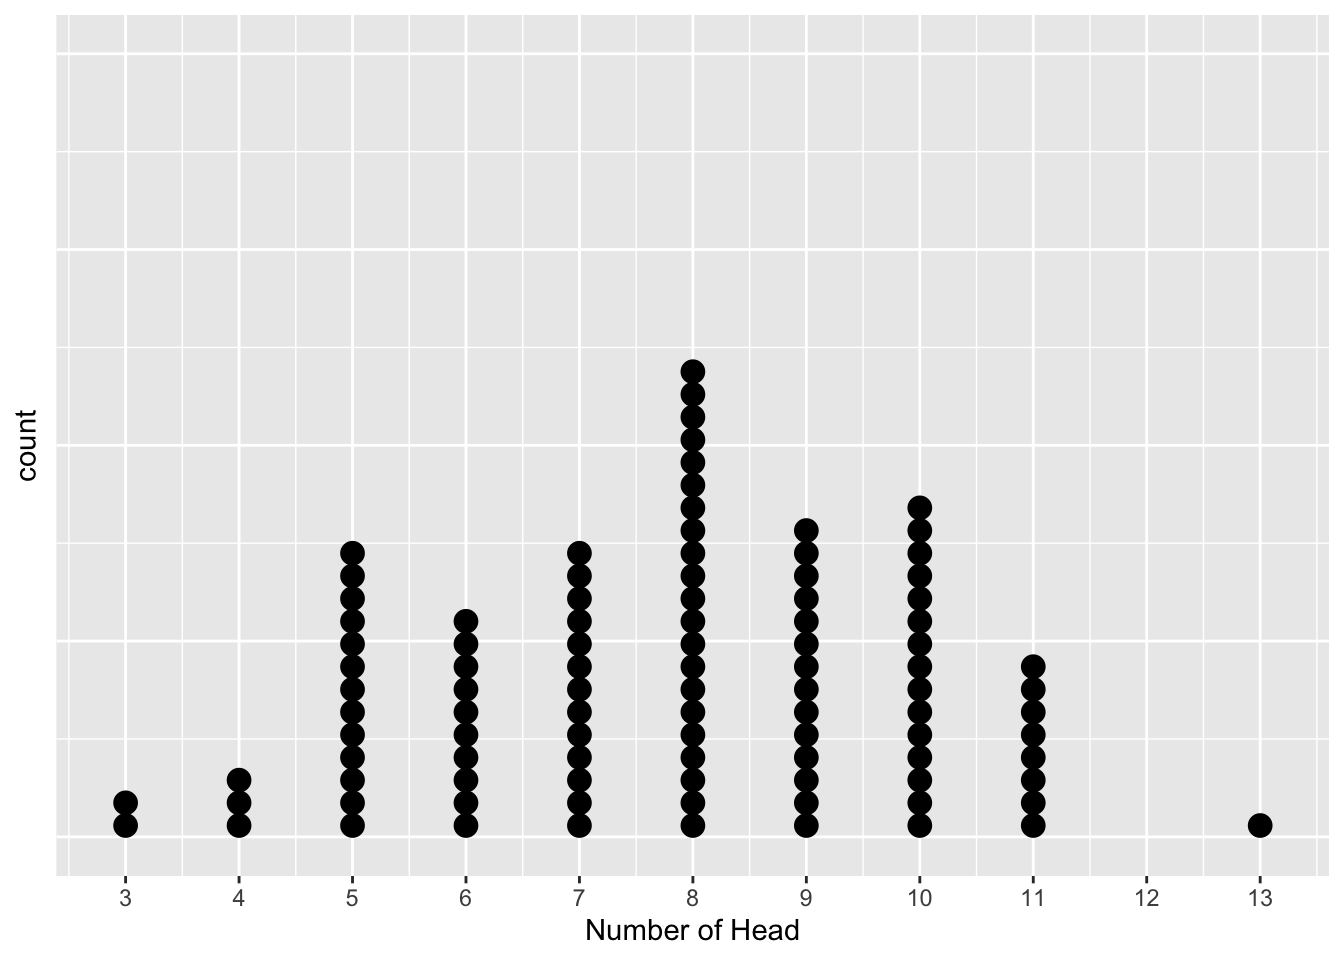
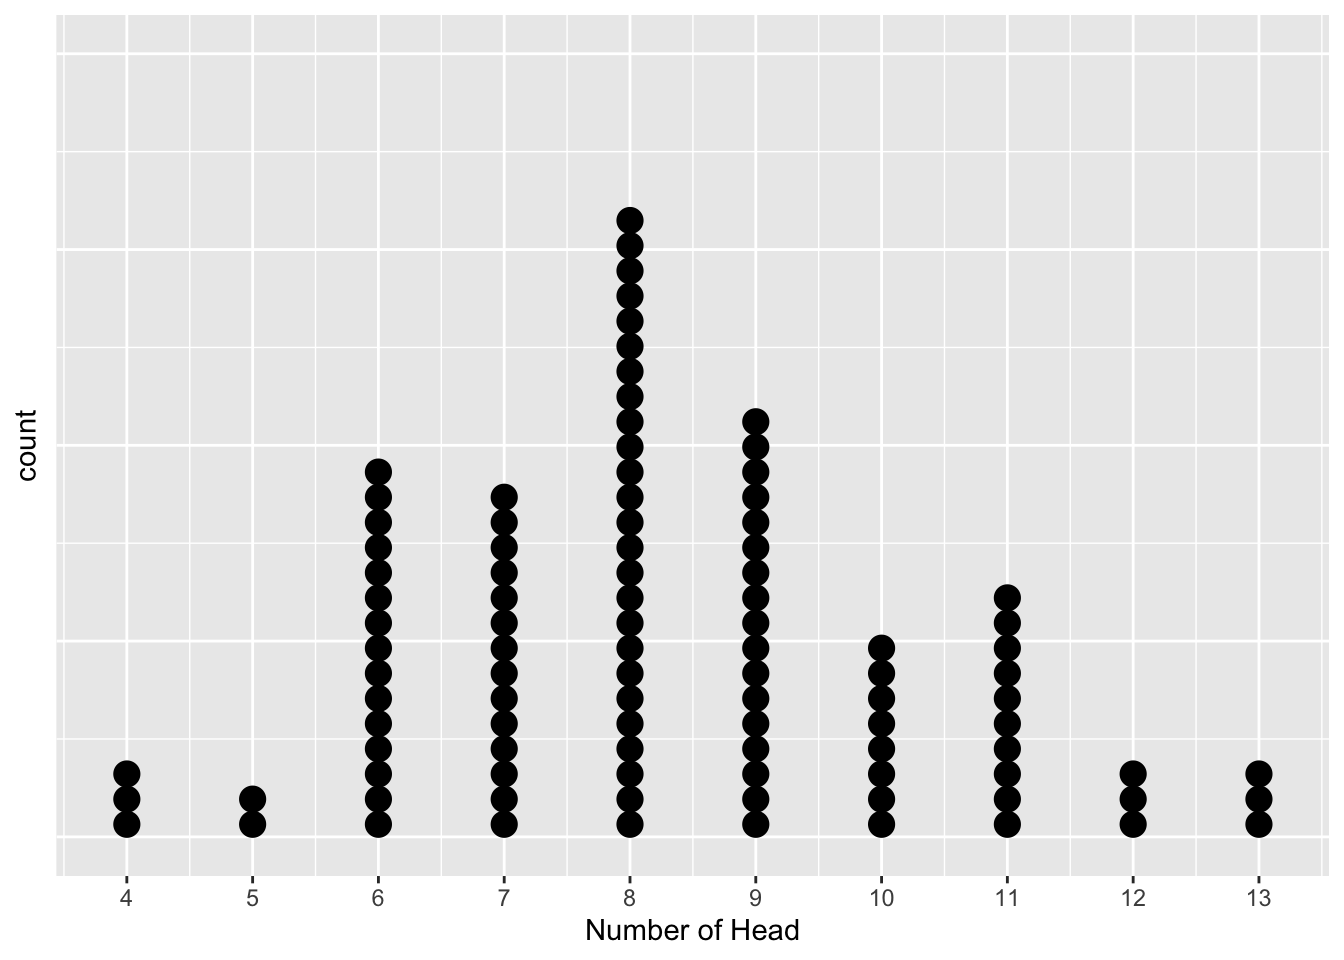
change title

diff --git a/docs/confidence-interval.html b/docs/confidence-interval.html
@@ -23,7 +23,7 @@
 <meta name="author" content="Nannan Wang" />
 
 
-<meta name="date" content="2022-07-24" />
+<meta name="date" content="2022-07-25" />
 
   <meta name="viewport" content="width=device-width, initial-scale=1" />
   <meta name="apple-mobile-web-app-capable" content="yes" />
@@ -175,27 +175,27 @@ code span.wa { color: #60a0b0; font-weight: bold; font-style: italic; } /* Warni
 <h1><span class="header-section-number">Chapter 3</span> Confidence Interval<a href="confidence-interval.html#confidence-interval" class="anchor-section" aria-label="Anchor link to header"></a></h1>
 <div id="poll-simulation" class="section level2 hasAnchor" number="3.1">
 <h2><span class="header-section-number">3.1</span> Poll Simulation<a href="confidence-interval.html#poll-simulation" class="anchor-section" aria-label="Anchor link to header"></a></h2>
-<div class="sourceCode" id="cb12"><pre class="sourceCode r"><code class="sourceCode r"><span id="cb12-1"><a href="confidence-interval.html#cb12-1" aria-hidden="true" tabindex="-1"></a><span class="co"># This example illustrates how to calculate the probability of having 50 out of 80 people supporting the Legalization of Medical Marijuana in Minnesota.</span></span>
-<span id="cb12-2"><a href="confidence-interval.html#cb12-2" aria-hidden="true" tabindex="-1"></a><span class="co"># Note to find probability of other values, you should make some changes. </span></span>
-<span id="cb12-3"><a href="confidence-interval.html#cb12-3" aria-hidden="true" tabindex="-1"></a>Prob50 <span class="ot">&lt;-</span> <span class="fu">factorial</span>(<span class="dv">80</span>) <span class="sc">/</span> <span class="fu">factorial</span>(<span class="dv">80-50</span>) <span class="sc">/</span> <span class="fu">factorial</span>(<span class="dv">50</span>)<span class="sc">*</span>(<span class="fl">0.5</span>)<span class="sc">^</span><span class="dv">50</span><span class="sc">*</span>(<span class="dv">1</span><span class="fl">-0.5</span>)<span class="sc">^</span>(<span class="dv">80-50</span>)</span>
-<span id="cb12-4"><a href="confidence-interval.html#cb12-4" aria-hidden="true" tabindex="-1"></a>Prob50</span></code></pre></div>
+<div class="sourceCode" id="cb4"><pre class="sourceCode r"><code class="sourceCode r"><span id="cb4-1"><a href="confidence-interval.html#cb4-1" aria-hidden="true" tabindex="-1"></a><span class="co"># This example illustrates how to calculate the probability of having 50 out of 80 people supporting the Legalization of Medical Marijuana in Minnesota.</span></span>
+<span id="cb4-2"><a href="confidence-interval.html#cb4-2" aria-hidden="true" tabindex="-1"></a><span class="co"># Note to find probability of other values, you should make some changes. </span></span>
+<span id="cb4-3"><a href="confidence-interval.html#cb4-3" aria-hidden="true" tabindex="-1"></a>Prob50 <span class="ot">&lt;-</span> <span class="fu">factorial</span>(<span class="dv">80</span>) <span class="sc">/</span> <span class="fu">factorial</span>(<span class="dv">80-50</span>) <span class="sc">/</span> <span class="fu">factorial</span>(<span class="dv">50</span>)<span class="sc">*</span>(<span class="fl">0.5</span>)<span class="sc">^</span><span class="dv">50</span><span class="sc">*</span>(<span class="dv">1</span><span class="fl">-0.5</span>)<span class="sc">^</span>(<span class="dv">80-50</span>)</span>
+<span id="cb4-4"><a href="confidence-interval.html#cb4-4" aria-hidden="true" tabindex="-1"></a>Prob50</span></code></pre></div>
 <pre><code>## [1] 0.00733826</code></pre>
 </div>
 <div id="poll-p-value" class="section level2 hasAnchor" number="3.2">
 <h2><span class="header-section-number">3.2</span> Poll P-value<a href="confidence-interval.html#poll-p-value" class="anchor-section" aria-label="Anchor link to header"></a></h2>
-<div class="sourceCode" id="cb14"><pre class="sourceCode r"><code class="sourceCode r"><span id="cb14-1"><a href="confidence-interval.html#cb14-1" aria-hidden="true" tabindex="-1"></a><span class="co"># This example shows how to calculate P-value of having 50 out of 80 people supporting the Legalization of Medical Marijuana in Minnesota.</span></span>
-<span id="cb14-2"><a href="confidence-interval.html#cb14-2" aria-hidden="true" tabindex="-1"></a>numberTrial <span class="ot">&lt;-</span> <span class="dv">80</span></span>
-<span id="cb14-3"><a href="confidence-interval.html#cb14-3" aria-hidden="true" tabindex="-1"></a>parameter <span class="ot">&lt;-</span> <span class="dv">1</span><span class="sc">/</span><span class="dv">2</span></span>
-<span id="cb14-4"><a href="confidence-interval.html#cb14-4" aria-hidden="true" tabindex="-1"></a>probability <span class="ot">&lt;-</span> <span class="cf">function</span>(n, x) {</span>
-<span id="cb14-5"><a href="confidence-interval.html#cb14-5" aria-hidden="true" tabindex="-1"></a>  <span class="fu">factorial</span>(n) <span class="sc">/</span> <span class="fu">factorial</span>(n<span class="sc">-</span>x) <span class="sc">/</span> <span class="fu">factorial</span>(x)<span class="sc">*</span>(parameter)<span class="sc">^</span>x<span class="sc">*</span>(<span class="dv">1</span><span class="sc">-</span>parameter)<span class="sc">^</span>(n<span class="sc">-</span>x)</span>
-<span id="cb14-6"><a href="confidence-interval.html#cb14-6" aria-hidden="true" tabindex="-1"></a>}</span>
-<span id="cb14-7"><a href="confidence-interval.html#cb14-7" aria-hidden="true" tabindex="-1"></a><span class="co"># create a dataframe for saving the probability of different number of people supporting the Legalization of Medical Marijuana in Minnesota.</span></span>
-<span id="cb14-8"><a href="confidence-interval.html#cb14-8" aria-hidden="true" tabindex="-1"></a>distvector <span class="ot">&lt;-</span> <span class="fu">vector</span>(<span class="st">&#39;numeric&#39;</span>,<span class="at">length =</span> <span class="dv">11</span>)</span>
-<span id="cb14-9"><a href="confidence-interval.html#cb14-9" aria-hidden="true" tabindex="-1"></a><span class="cf">for</span> (i <span class="cf">in</span> <span class="dv">0</span><span class="sc">:</span><span class="dv">80</span>){</span>
-<span id="cb14-10"><a href="confidence-interval.html#cb14-10" aria-hidden="true" tabindex="-1"></a>  distvector[i<span class="sc">+</span><span class="dv">1</span>] <span class="ot">&lt;-</span> <span class="fu">probability</span>(<span class="dv">80</span>,i)</span>
-<span id="cb14-11"><a href="confidence-interval.html#cb14-11" aria-hidden="true" tabindex="-1"></a>}</span>
-<span id="cb14-12"><a href="confidence-interval.html#cb14-12" aria-hidden="true" tabindex="-1"></a>disPoll <span class="ot">&lt;-</span> <span class="fu">as.data.frame</span>(<span class="fu">cbind</span>(<span class="fu">seq</span>(<span class="dv">0</span>,<span class="dv">80</span>),distvector))</span>
-<span id="cb14-13"><a href="confidence-interval.html#cb14-13" aria-hidden="true" tabindex="-1"></a><span class="fu">head</span>(disPoll)</span></code></pre></div>
+<div class="sourceCode" id="cb6"><pre class="sourceCode r"><code class="sourceCode r"><span id="cb6-1"><a href="confidence-interval.html#cb6-1" aria-hidden="true" tabindex="-1"></a><span class="co"># This example shows how to calculate P-value of having 50 out of 80 people supporting the Legalization of Medical Marijuana in Minnesota.</span></span>
+<span id="cb6-2"><a href="confidence-interval.html#cb6-2" aria-hidden="true" tabindex="-1"></a>numberTrial <span class="ot">&lt;-</span> <span class="dv">80</span></span>
+<span id="cb6-3"><a href="confidence-interval.html#cb6-3" aria-hidden="true" tabindex="-1"></a>parameter <span class="ot">&lt;-</span> <span class="dv">1</span><span class="sc">/</span><span class="dv">2</span></span>
+<span id="cb6-4"><a href="confidence-interval.html#cb6-4" aria-hidden="true" tabindex="-1"></a>probability <span class="ot">&lt;-</span> <span class="cf">function</span>(n, x) {</span>
+<span id="cb6-5"><a href="confidence-interval.html#cb6-5" aria-hidden="true" tabindex="-1"></a>  <span class="fu">factorial</span>(n) <span class="sc">/</span> <span class="fu">factorial</span>(n<span class="sc">-</span>x) <span class="sc">/</span> <span class="fu">factorial</span>(x)<span class="sc">*</span>(parameter)<span class="sc">^</span>x<span class="sc">*</span>(<span class="dv">1</span><span class="sc">-</span>parameter)<span class="sc">^</span>(n<span class="sc">-</span>x)</span>
+<span id="cb6-6"><a href="confidence-interval.html#cb6-6" aria-hidden="true" tabindex="-1"></a>}</span>
+<span id="cb6-7"><a href="confidence-interval.html#cb6-7" aria-hidden="true" tabindex="-1"></a><span class="co"># create a dataframe for saving the probability of different number of people supporting the Legalization of Medical Marijuana in Minnesota.</span></span>
+<span id="cb6-8"><a href="confidence-interval.html#cb6-8" aria-hidden="true" tabindex="-1"></a>distvector <span class="ot">&lt;-</span> <span class="fu">vector</span>(<span class="st">&#39;numeric&#39;</span>,<span class="at">length =</span> <span class="dv">11</span>)</span>
+<span id="cb6-9"><a href="confidence-interval.html#cb6-9" aria-hidden="true" tabindex="-1"></a><span class="cf">for</span> (i <span class="cf">in</span> <span class="dv">0</span><span class="sc">:</span><span class="dv">80</span>){</span>
+<span id="cb6-10"><a href="confidence-interval.html#cb6-10" aria-hidden="true" tabindex="-1"></a>  distvector[i<span class="sc">+</span><span class="dv">1</span>] <span class="ot">&lt;-</span> <span class="fu">probability</span>(<span class="dv">80</span>,i)</span>
+<span id="cb6-11"><a href="confidence-interval.html#cb6-11" aria-hidden="true" tabindex="-1"></a>}</span>
+<span id="cb6-12"><a href="confidence-interval.html#cb6-12" aria-hidden="true" tabindex="-1"></a>disPoll <span class="ot">&lt;-</span> <span class="fu">as.data.frame</span>(<span class="fu">cbind</span>(<span class="fu">seq</span>(<span class="dv">0</span>,<span class="dv">80</span>),distvector))</span>
+<span id="cb6-13"><a href="confidence-interval.html#cb6-13" aria-hidden="true" tabindex="-1"></a><span class="fu">head</span>(disPoll)</span></code></pre></div>
 <pre><code>##   V1   distvector
 ## 1  0 8.271806e-25
 ## 2  1 6.617445e-23
@@ -203,28 +203,28 @@ code span.wa { color: #60a0b0; font-weight: bold; font-style: italic; } /* Warni
 ## 4  3 6.796116e-20
 ## 5  4 1.308252e-18
 ## 6  5 1.988544e-17</code></pre>
-<div class="sourceCode" id="cb16"><pre class="sourceCode r"><code class="sourceCode r"><span id="cb16-1"><a href="confidence-interval.html#cb16-1" aria-hidden="true" tabindex="-1"></a><span class="co"># Plot the distribution</span></span>
-<span id="cb16-2"><a href="confidence-interval.html#cb16-2" aria-hidden="true" tabindex="-1"></a><span class="fu">barplot</span>(dis<span class="sc">$</span>distvector,<span class="at">ylim=</span><span class="fu">c</span>(<span class="dv">0</span>,<span class="fl">0.1</span>),<span class="at">names.arg =</span> dis<span class="sc">$</span>V1)</span></code></pre></div>
-<p><img src="bookdownproj_files/figure-html/unnamed-chunk-6-1.png" width="672" /></p>
-<div class="sourceCode" id="cb17"><pre class="sourceCode r"><code class="sourceCode r"><span id="cb17-1"><a href="confidence-interval.html#cb17-1" aria-hidden="true" tabindex="-1"></a><span class="co"># find P-value</span></span>
-<span id="cb17-2"><a href="confidence-interval.html#cb17-2" aria-hidden="true" tabindex="-1"></a>pValue <span class="ot">&lt;-</span> <span class="fu">sum</span>(distvector[<span class="dv">51</span><span class="sc">:</span><span class="dv">81</span>])</span>
-<span id="cb17-3"><a href="confidence-interval.html#cb17-3" aria-hidden="true" tabindex="-1"></a>pValue</span></code></pre></div>
+<div class="sourceCode" id="cb8"><pre class="sourceCode r"><code class="sourceCode r"><span id="cb8-1"><a href="confidence-interval.html#cb8-1" aria-hidden="true" tabindex="-1"></a><span class="co"># Plot the distribution</span></span>
+<span id="cb8-2"><a href="confidence-interval.html#cb8-2" aria-hidden="true" tabindex="-1"></a><span class="fu">barplot</span>(dis<span class="sc">$</span>distvector,<span class="at">ylim=</span><span class="fu">c</span>(<span class="dv">0</span>,<span class="fl">0.1</span>),<span class="at">names.arg =</span> dis<span class="sc">$</span>V1)</span></code></pre></div>
+<p><img src="bookdownproj_files/figure-html/unnamed-chunk-3-1.png" width="672" /></p>
+<div class="sourceCode" id="cb9"><pre class="sourceCode r"><code class="sourceCode r"><span id="cb9-1"><a href="confidence-interval.html#cb9-1" aria-hidden="true" tabindex="-1"></a><span class="co"># find P-value</span></span>
+<span id="cb9-2"><a href="confidence-interval.html#cb9-2" aria-hidden="true" tabindex="-1"></a>pValue <span class="ot">&lt;-</span> <span class="fu">sum</span>(distvector[<span class="dv">51</span><span class="sc">:</span><span class="dv">81</span>])</span>
+<span id="cb9-3"><a href="confidence-interval.html#cb9-3" aria-hidden="true" tabindex="-1"></a>pValue</span></code></pre></div>
 <pre><code>## [1] 0.01649631</code></pre>
 </div>
 <div id="calculate-confidence-interval" class="section level2 hasAnchor" number="3.3">
 <h2><span class="header-section-number">3.3</span> Calculate Confidence Interval<a href="confidence-interval.html#calculate-confidence-interval" class="anchor-section" aria-label="Anchor link to header"></a></h2>
-<div class="sourceCode" id="cb19"><pre class="sourceCode r"><code class="sourceCode r"><span id="cb19-1"><a href="confidence-interval.html#cb19-1" aria-hidden="true" tabindex="-1"></a><span class="co"># This section shows how to calculate Standard Error and Confidence Interval for the proportion of people supporting the Legalization of Medical Marijuana in Minnesota.</span></span>
-<span id="cb19-2"><a href="confidence-interval.html#cb19-2" aria-hidden="true" tabindex="-1"></a><span class="co"># 1. Find the Standard Error</span></span>
-<span id="cb19-3"><a href="confidence-interval.html#cb19-3" aria-hidden="true" tabindex="-1"></a>obsProportion <span class="ot">&lt;-</span> <span class="fl">0.8</span></span>
-<span id="cb19-4"><a href="confidence-interval.html#cb19-4" aria-hidden="true" tabindex="-1"></a>sampleSize <span class="ot">&lt;-</span> <span class="dv">80</span></span>
-<span id="cb19-5"><a href="confidence-interval.html#cb19-5" aria-hidden="true" tabindex="-1"></a>SE <span class="ot">&lt;-</span> <span class="fu">sqrt</span>((obsProportion<span class="sc">*</span>(<span class="dv">1</span><span class="sc">-</span>obsProportion))<span class="sc">/</span>sampleSize)</span>
-<span id="cb19-6"><a href="confidence-interval.html#cb19-6" aria-hidden="true" tabindex="-1"></a>SE</span></code></pre></div>
+<div class="sourceCode" id="cb11"><pre class="sourceCode r"><code class="sourceCode r"><span id="cb11-1"><a href="confidence-interval.html#cb11-1" aria-hidden="true" tabindex="-1"></a><span class="co"># This section shows how to calculate Standard Error and Confidence Interval for the proportion of people supporting the Legalization of Medical Marijuana in Minnesota.</span></span>
+<span id="cb11-2"><a href="confidence-interval.html#cb11-2" aria-hidden="true" tabindex="-1"></a><span class="co"># 1. Find the Standard Error</span></span>
+<span id="cb11-3"><a href="confidence-interval.html#cb11-3" aria-hidden="true" tabindex="-1"></a>obsProportion <span class="ot">&lt;-</span> <span class="fl">0.8</span></span>
+<span id="cb11-4"><a href="confidence-interval.html#cb11-4" aria-hidden="true" tabindex="-1"></a>sampleSize <span class="ot">&lt;-</span> <span class="dv">80</span></span>
+<span id="cb11-5"><a href="confidence-interval.html#cb11-5" aria-hidden="true" tabindex="-1"></a>SE <span class="ot">&lt;-</span> <span class="fu">sqrt</span>((obsProportion<span class="sc">*</span>(<span class="dv">1</span><span class="sc">-</span>obsProportion))<span class="sc">/</span>sampleSize)</span>
+<span id="cb11-6"><a href="confidence-interval.html#cb11-6" aria-hidden="true" tabindex="-1"></a>SE</span></code></pre></div>
 <pre><code>## [1] 0.04472136</code></pre>
-<div class="sourceCode" id="cb21"><pre class="sourceCode r"><code class="sourceCode r"><span id="cb21-1"><a href="confidence-interval.html#cb21-1" aria-hidden="true" tabindex="-1"></a><span class="co"># 2. Find the upper and lower bound for the 95% confidence interval</span></span>
-<span id="cb21-2"><a href="confidence-interval.html#cb21-2" aria-hidden="true" tabindex="-1"></a>upper <span class="ot">&lt;-</span> obsProportion<span class="sc">+</span><span class="fu">qnorm</span>(<span class="fl">0.975</span>,<span class="at">mean=</span><span class="dv">0</span>,<span class="at">sd=</span><span class="dv">1</span>)<span class="sc">*</span>SE</span>
-<span id="cb21-3"><a href="confidence-interval.html#cb21-3" aria-hidden="true" tabindex="-1"></a>lower <span class="ot">&lt;-</span> obsProportion<span class="sc">-</span><span class="fu">qnorm</span>(<span class="fl">0.975</span>,<span class="at">mean=</span><span class="dv">0</span>,<span class="at">sd=</span><span class="dv">1</span>)<span class="sc">*</span>SE</span>
-<span id="cb21-4"><a href="confidence-interval.html#cb21-4" aria-hidden="true" tabindex="-1"></a>ConfidenceInterval <span class="ot">&lt;-</span> <span class="fu">cbind</span>(upper,lower)</span>
-<span id="cb21-5"><a href="confidence-interval.html#cb21-5" aria-hidden="true" tabindex="-1"></a>ConfidenceInterval</span></code></pre></div>
+<div class="sourceCode" id="cb13"><pre class="sourceCode r"><code class="sourceCode r"><span id="cb13-1"><a href="confidence-interval.html#cb13-1" aria-hidden="true" tabindex="-1"></a><span class="co"># 2. Find the upper and lower bound for the 95% confidence interval</span></span>
+<span id="cb13-2"><a href="confidence-interval.html#cb13-2" aria-hidden="true" tabindex="-1"></a>upper <span class="ot">&lt;-</span> obsProportion<span class="sc">+</span><span class="fu">qnorm</span>(<span class="fl">0.975</span>,<span class="at">mean=</span><span class="dv">0</span>,<span class="at">sd=</span><span class="dv">1</span>)<span class="sc">*</span>SE</span>
+<span id="cb13-3"><a href="confidence-interval.html#cb13-3" aria-hidden="true" tabindex="-1"></a>lower <span class="ot">&lt;-</span> obsProportion<span class="sc">-</span><span class="fu">qnorm</span>(<span class="fl">0.975</span>,<span class="at">mean=</span><span class="dv">0</span>,<span class="at">sd=</span><span class="dv">1</span>)<span class="sc">*</span>SE</span>
+<span id="cb13-4"><a href="confidence-interval.html#cb13-4" aria-hidden="true" tabindex="-1"></a>ConfidenceInterval <span class="ot">&lt;-</span> <span class="fu">cbind</span>(upper,lower)</span>
+<span id="cb13-5"><a href="confidence-interval.html#cb13-5" aria-hidden="true" tabindex="-1"></a>ConfidenceInterval</span></code></pre></div>
 <pre><code>##          upper     lower
 ## [1,] 0.8876523 0.7123477</code></pre>
 

diff --git a/docs/index.html b/docs/index.html
@@ -4,18 +4,18 @@
 
   <meta charset="utf-8" />
   <meta http-equiv="X-UA-Compatible" content="IE=edge" />
-  <title>TLTE-889 Project</title>
-  <meta name="description" content="TLTE-889 Project" />
+  <title>Basic Statistics</title>
+  <meta name="description" content="Basic Statistics" />
   <meta name="generator" content="bookdown 0.26 and GitBook 2.6.7" />
 
-  <meta property="og:title" content="TLTE-889 Project" />
+  <meta property="og:title" content="Basic Statistics" />
   <meta property="og:type" content="book" />
   
   
   
 
   <meta name="twitter:card" content="summary" />
-  <meta name="twitter:title" content="TLTE-889 Project" />
+  <meta name="twitter:title" content="Basic Statistics" />
   
   
   
@@ -23,7 +23,7 @@
 <meta name="author" content="Nannan Wang" />
 
 
-<meta name="date" content="2022-07-24" />
+<meta name="date" content="2022-07-25" />
 
   <meta name="viewport" content="width=device-width, initial-scale=1" />
   <meta name="apple-mobile-web-app-capable" content="yes" />
@@ -163,7 +163,7 @@ code span.wa { color: #60a0b0; font-weight: bold; font-style: italic; } /* Warni
       <div class="body-inner">
         <div class="book-header" role="navigation">
           <h1>
-            <i class="fa fa-circle-o-notch fa-spin"></i><a href="./">TLTE-889 Project</a>
+            <i class="fa fa-circle-o-notch fa-spin"></i><a href="./">Basic Statistics</a>
           </h1>
         </div>
 
@@ -172,9 +172,9 @@ code span.wa { color: #60a0b0; font-weight: bold; font-style: italic; } /* Warni
 
             <section class="normal" id="section-">
 <div id="header">
-<h1 class="title">TLTE-889 Project</h1>
+<h1 class="title">Basic Statistics</h1>
 <p class="author"><em>Nannan Wang</em></p>
-<p class="date"><em>2022-07-24</em></p>
+<p class="date"><em>2022-07-25</em></p>
 </div>
 <div id="chance-model" class="section level1 hasAnchor" number="1">
 <h1><span class="header-section-number">Chapter 1</span> Chance Model<a href="index.html#chance-model" class="anchor-section" aria-label="Anchor link to header"></a></h1>
@@ -188,7 +188,7 @@ code span.wa { color: #60a0b0; font-weight: bold; font-style: italic; } /* Warni
 <span id="cb1-6"><a href="index.html#cb1-6" aria-hidden="true" tabindex="-1"></a>}</span>
 <span id="cb1-7"><a href="index.html#cb1-7" aria-hidden="true" tabindex="-1"></a><span class="co"># Each value in the resultContainer represents result from flipping the coin each time, since one repetition contains 10 trails, there are 10 values in resultContainer. </span></span>
 <span id="cb1-8"><a href="index.html#cb1-8" aria-hidden="true" tabindex="-1"></a>resultContainer</span></code></pre></div>
-<pre><code>##  [1] 0 1 0 0 0 0 1 1 0 0</code></pre>
+<pre><code>##  [1] 0 0 0 1 1 0 1 0 0 0</code></pre>
 <div class="sourceCode" id="cb3"><pre class="sourceCode r"><code class="sourceCode r"><span id="cb3-1"><a href="index.html#cb3-1" aria-hidden="true" tabindex="-1"></a><span class="co"># sumHead represents the total number of head obtained from flipping the coin 10 times. </span></span>
 <span id="cb3-2"><a href="index.html#cb3-2" aria-hidden="true" tabindex="-1"></a>sumHead <span class="ot">&lt;-</span> <span class="fu">sum</span>(resultContainer)</span>
 <span id="cb3-3"><a href="index.html#cb3-3" aria-hidden="true" tabindex="-1"></a>sumHead</span></code></pre></div>
@@ -214,12 +214,12 @@ code span.wa { color: #60a0b0; font-weight: bold; font-style: italic; } /* Warni
 <span id="cb5-16"><a href="index.html#cb5-16" aria-hidden="true" tabindex="-1"></a>simulatedDisM <span class="ot">&lt;-</span> <span class="fu">as.data.frame</span>(simulatedDis)</span>
 <span id="cb5-17"><a href="index.html#cb5-17" aria-hidden="true" tabindex="-1"></a><span class="fu">head</span>(simulatedDisM)</span></code></pre></div>
 <pre><code>##   repLabel dis100Rep
-## 1        1        10
-## 2        2         6
-## 3        3         6
-## 4        4         8
+## 1        1         8
+## 2        2        13
+## 3        3         8
+## 4        4        11
 ## 5        5         8
-## 6        6         8</code></pre>
+## 6        6        11</code></pre>
 <div class="sourceCode" id="cb7"><pre class="sourceCode r"><code class="sourceCode r"><span id="cb7-1"><a href="index.html#cb7-1" aria-hidden="true" tabindex="-1"></a><span class="co"># plot the resulted dataframe in a dot plot. </span></span>
 <span id="cb7-2"><a href="index.html#cb7-2" aria-hidden="true" tabindex="-1"></a><span class="fu">library</span>(ggplot2)</span>
 <span id="cb7-3"><a href="index.html#cb7-3" aria-hidden="true" tabindex="-1"></a><span class="fu">ggplot</span>(simulatedDisM, <span class="fu">aes</span>(<span class="at">x =</span> dis100Rep)) <span class="sc">+</span></span>

diff --git a/docs/404.html b/docs/404.html
@@ -4,18 +4,18 @@
 
   <meta charset="utf-8" />
   <meta http-equiv="X-UA-Compatible" content="IE=edge" />
-  <title>Page not found | TLTE-889 Project</title>
-  <meta name="description" content="Page not found | TLTE-889 Project" />
+  <title>Page not found | Basic Statistics</title>
+  <meta name="description" content="Page not found | Basic Statistics" />
   <meta name="generator" content="bookdown 0.26 and GitBook 2.6.7" />
 
-  <meta property="og:title" content="Page not found | TLTE-889 Project" />
+  <meta property="og:title" content="Page not found | Basic Statistics" />
   <meta property="og:type" content="book" />
   
   
   
 
   <meta name="twitter:card" content="summary" />
-  <meta name="twitter:title" content="Page not found | TLTE-889 Project" />
+  <meta name="twitter:title" content="Page not found | Basic Statistics" />
   
   
   
@@ -23,7 +23,7 @@
 <meta name="author" content="Nannan Wang" />
 
 
-<meta name="date" content="2022-07-24" />
+<meta name="date" content="2022-07-25" />
 
   <meta name="viewport" content="width=device-width, initial-scale=1" />
   <meta name="apple-mobile-web-app-capable" content="yes" />
@@ -163,7 +163,7 @@ code span.wa { color: #60a0b0; font-weight: bold; font-style: italic; } /* Warni
       <div class="body-inner">
         <div class="book-header" role="navigation">
           <h1>
-            <i class="fa fa-circle-o-notch fa-spin"></i><a href="./">TLTE-889 Project</a>
+            <i class="fa fa-circle-o-notch fa-spin"></i><a href="./">Basic Statistics</a>
           </h1>
         </div>
 
